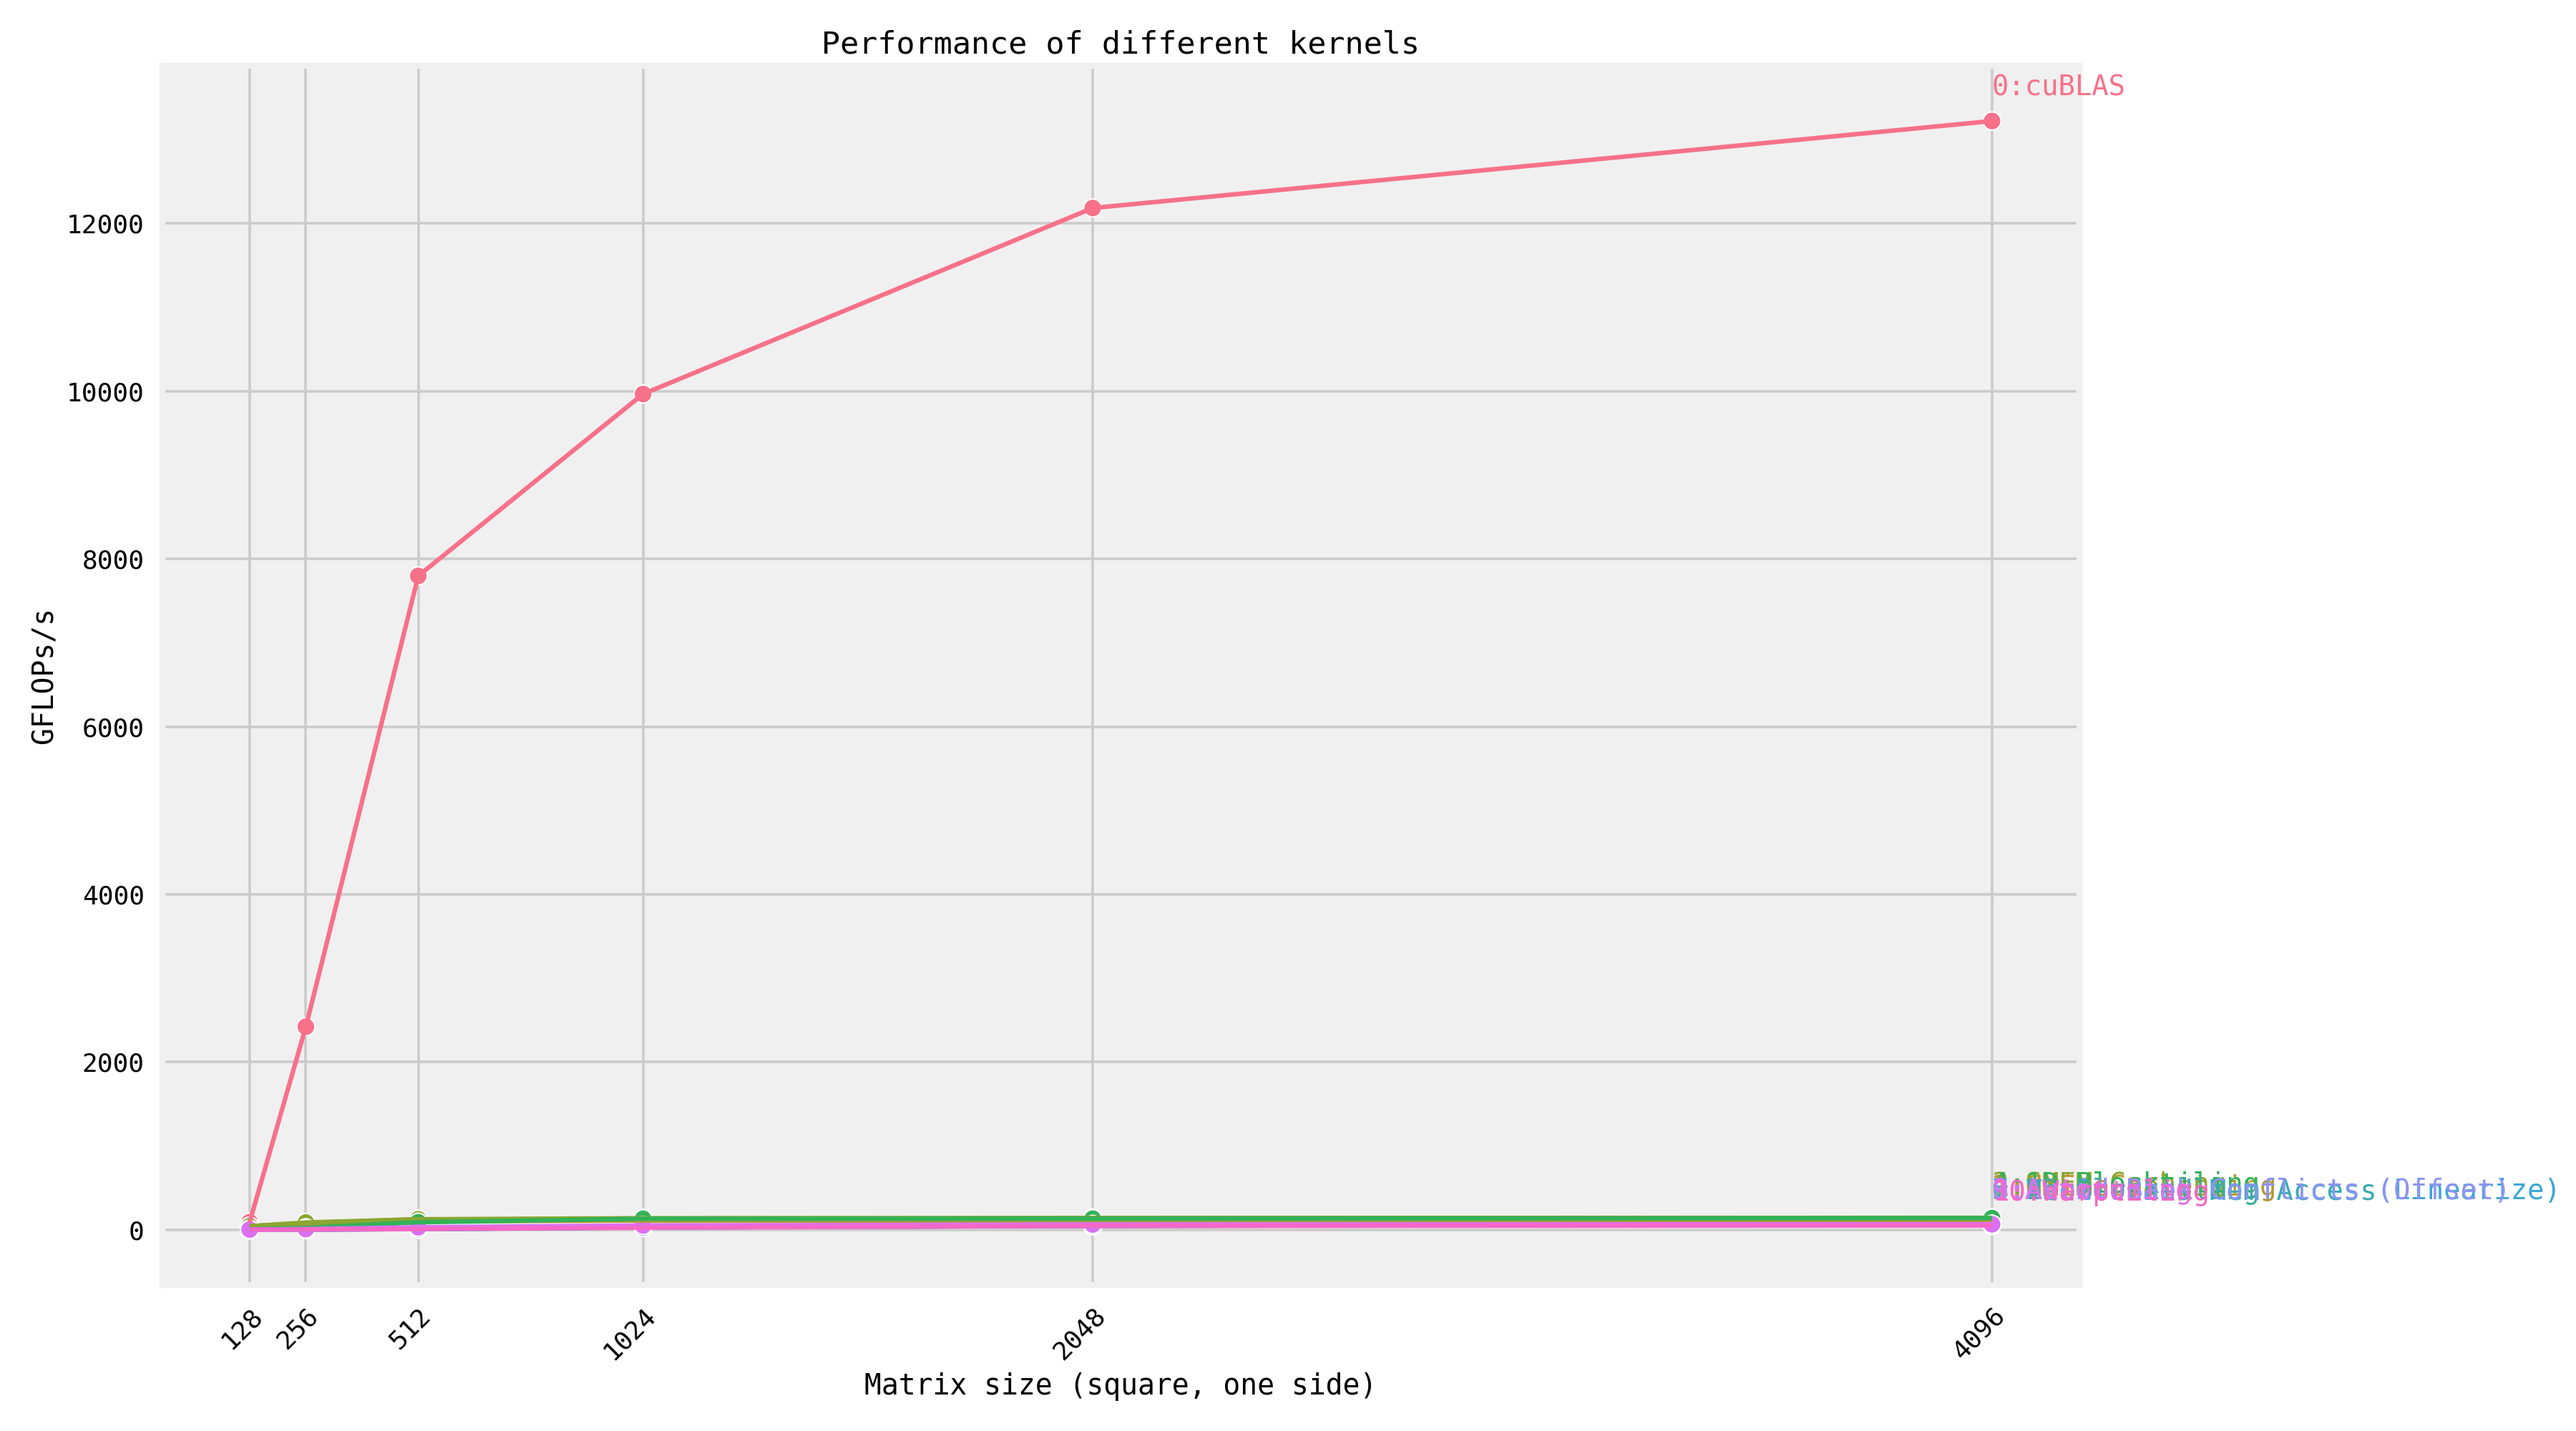
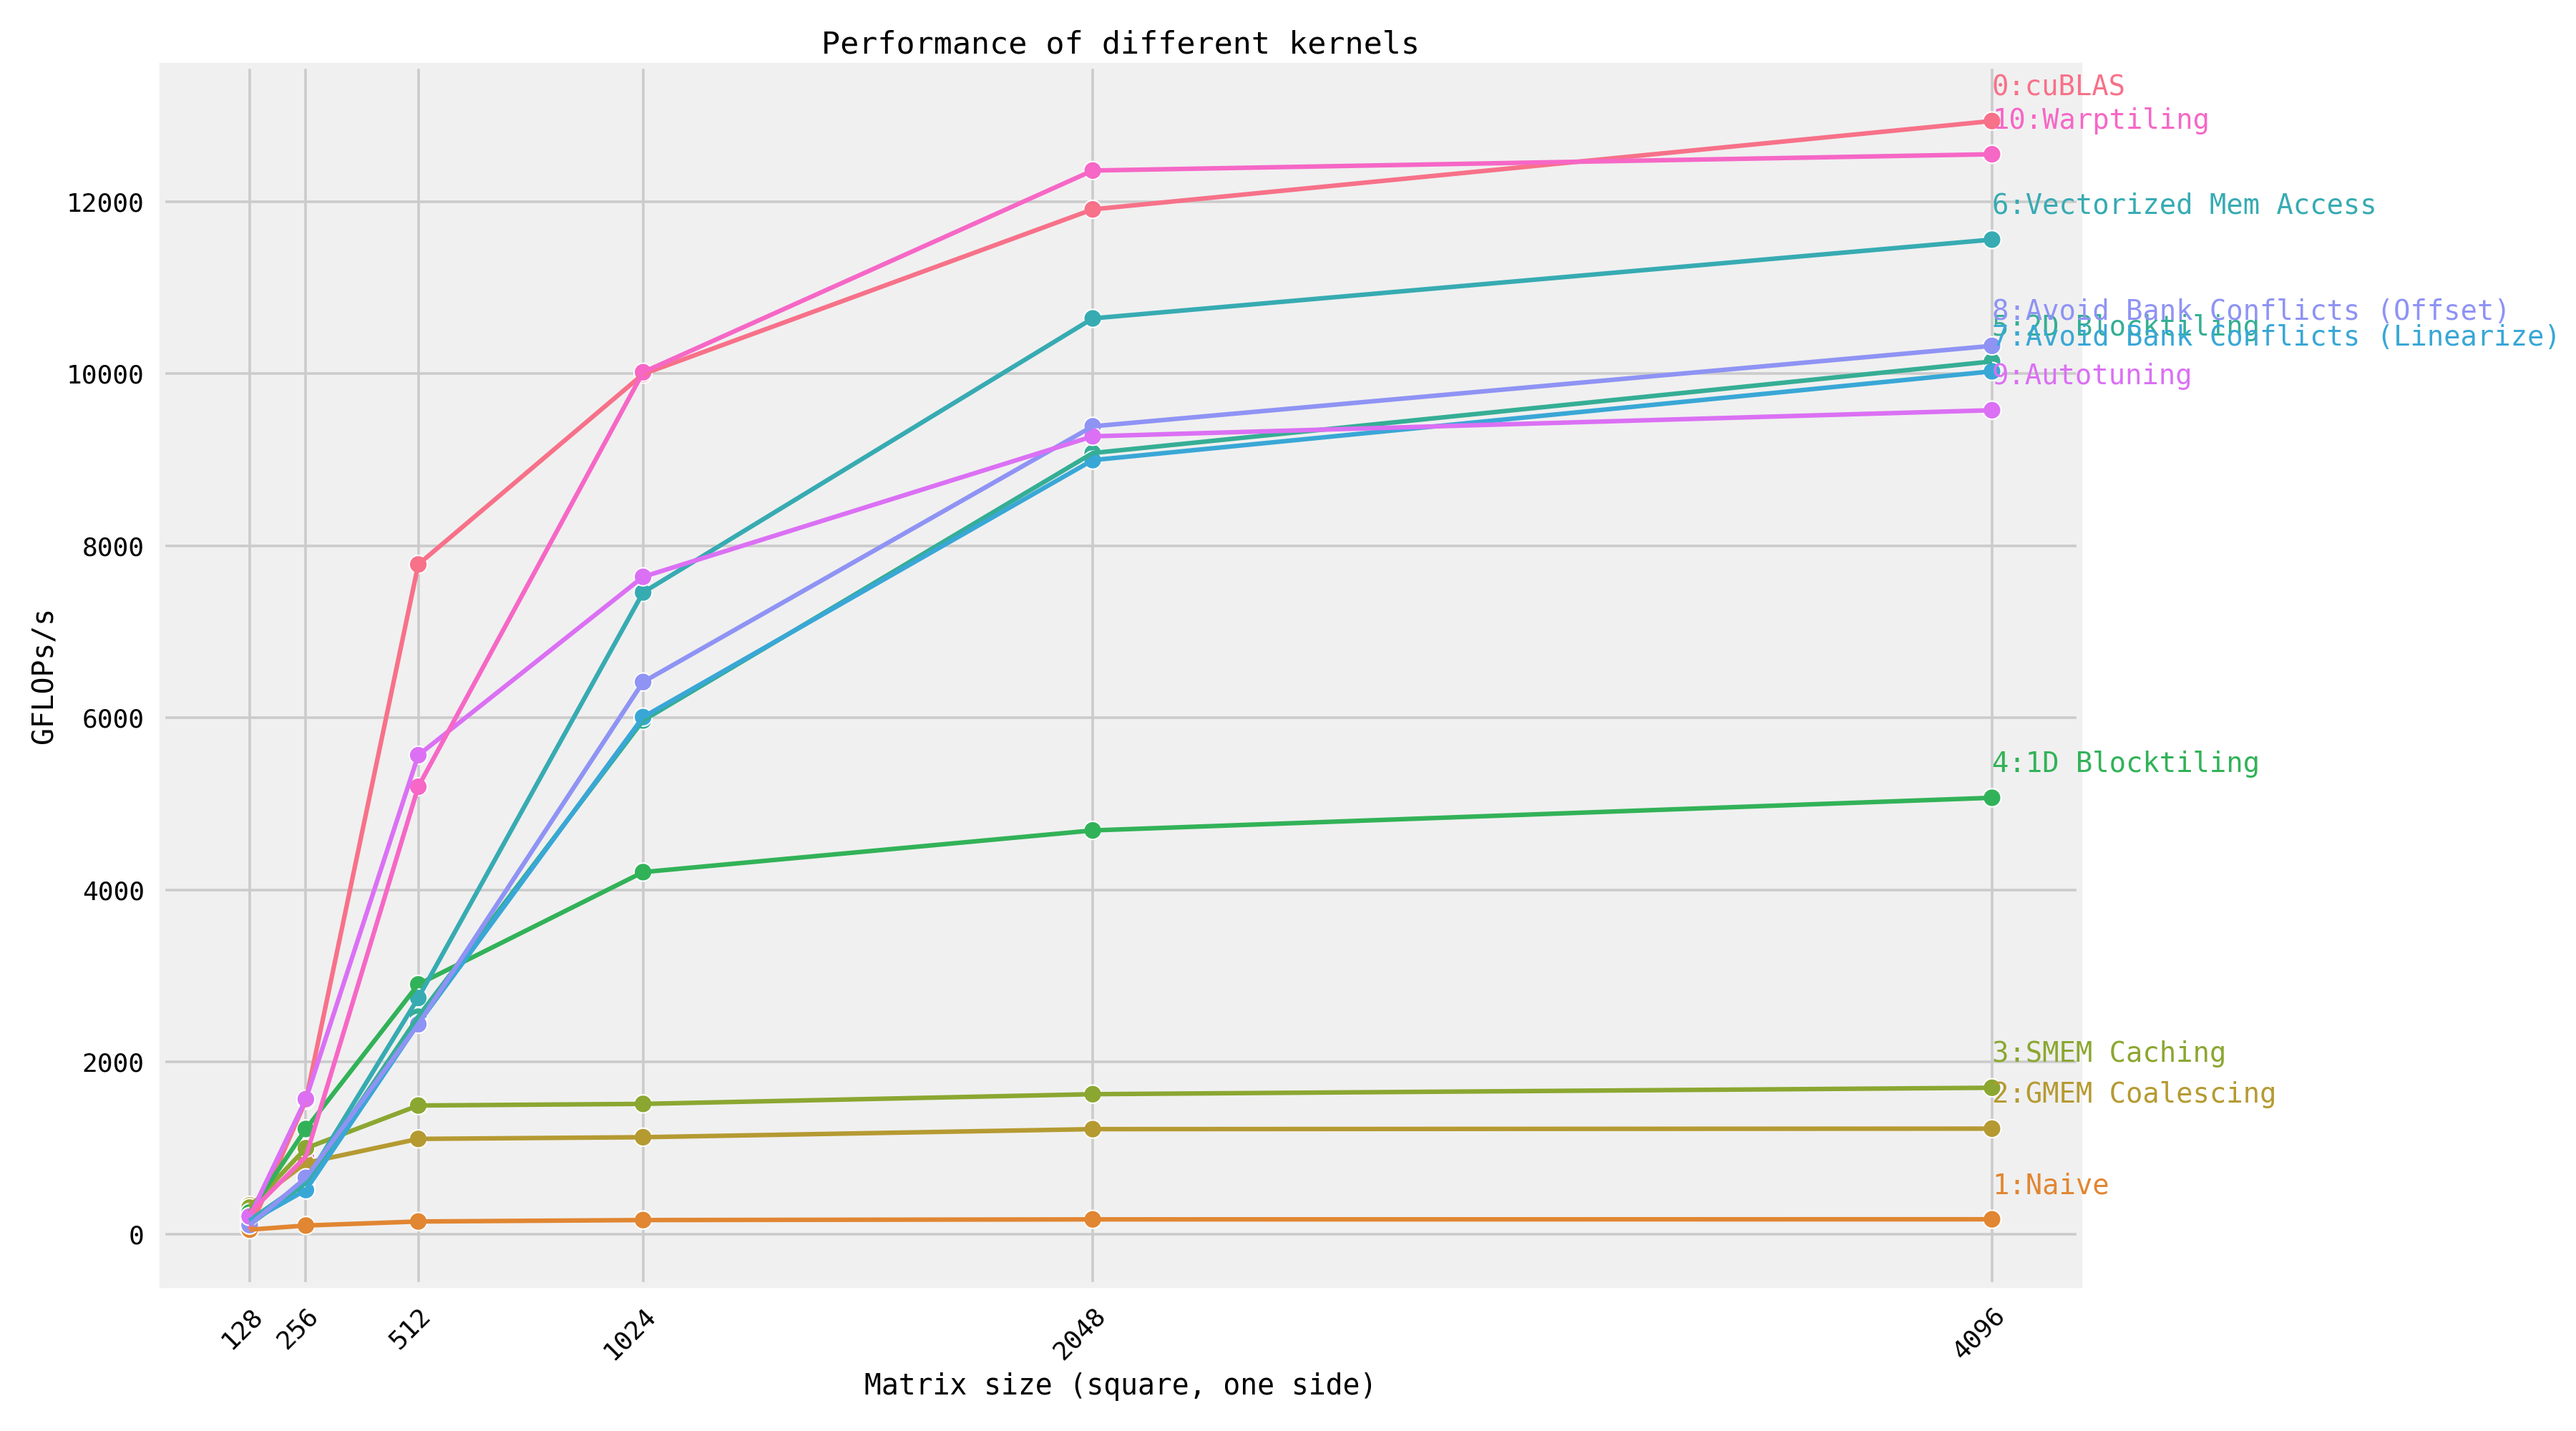
Update benchmark results for 3070, since A100 run failed to even compile on old toolchains

diff --git a/README.md b/README.md
@@ -13,17 +13,17 @@ GFLOPs at matrix size 4096x4096:
 <!-- benchmark_results -->
 | Kernel                              |   GFLOPs/s | Performance relative to cuBLAS   |
 |:------------------------------------|-----------:|:---------------------------------|
-| 10: Warptiling                      |       50.5 | 0.4%                             |
-| 8: Avoid Bank Conflicts (Offset)    |       61.8 | 0.5%                             |
-| 6: Vectorized Mem Access            |       61.9 | 0.5%                             |
-| 7: Avoid Bank Conflicts (Linearize) |       61.9 | 0.5%                             |
-| 5: 2D Blocktiling                   |       62.1 | 0.5%                             |
-| 9: Autotuning                       |       64.6 | 0.5%                             |
-| 2: GMEM Coalescing                  |      110.3 | 0.8%                             |
-| 1: Naive                            |      111.7 | 0.8%                             |
-| 4: 1D Blocktiling                   |      137.9 | 1.0%                             |
-| 3: SMEM Caching                     |      141.3 | 1.1%                             |
-| 0: cuBLAS                           |    13222.4 | 100.0%                           |
+| 1: Naive                            |      172.8 | 1.3%                             |
+| 2: GMEM Coalescing                  |     1226.4 | 9.5%                             |
+| 3: SMEM Caching                     |     1701.4 | 13.2%                            |
+| 4: 1D Blocktiling                   |     5071.8 | 39.2%                            |
+| 9: Autotuning                       |     9575.8 | 74.0%                            |
+| 7: Avoid Bank Conflicts (Linearize) |    10027.5 | 77.5%                            |
+| 5: 2D Blocktiling                   |    10142.7 | 78.4%                            |
+| 8: Avoid Bank Conflicts (Offset)    |    10323.8 | 79.8%                            |
+| 6: Vectorized Mem Access            |    11558.7 | 89.3%                            |
+| 10: Warptiling                      |    12550.6 | 97.0%                            |
+| 0: cuBLAS                           |    12936.8 | 100.0%                           |
 <!-- benchmark_results -->
 
 ## Setup
